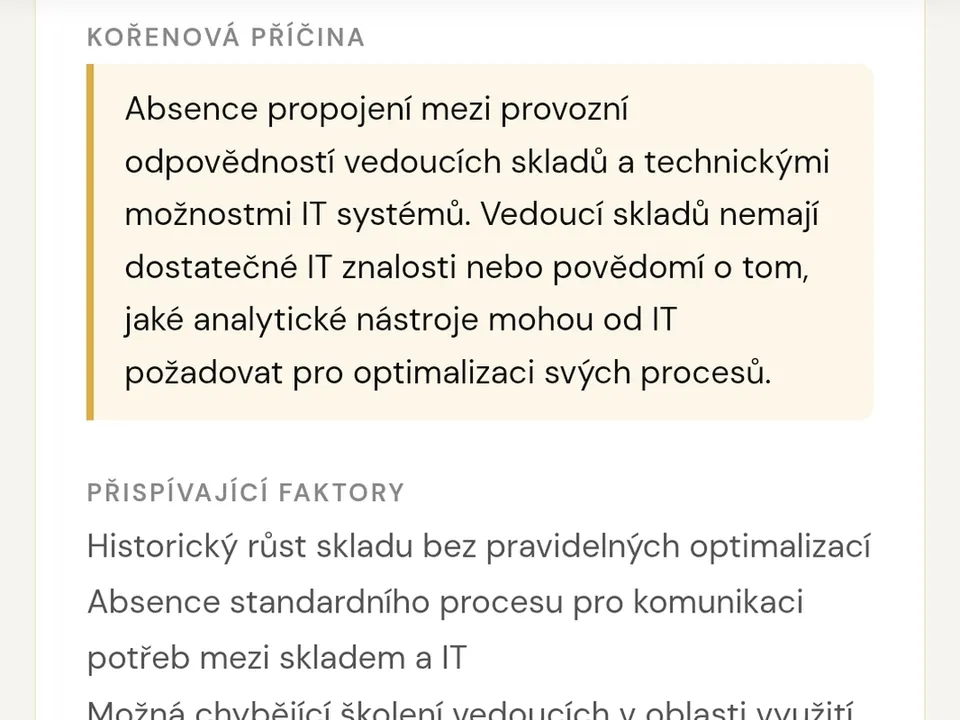
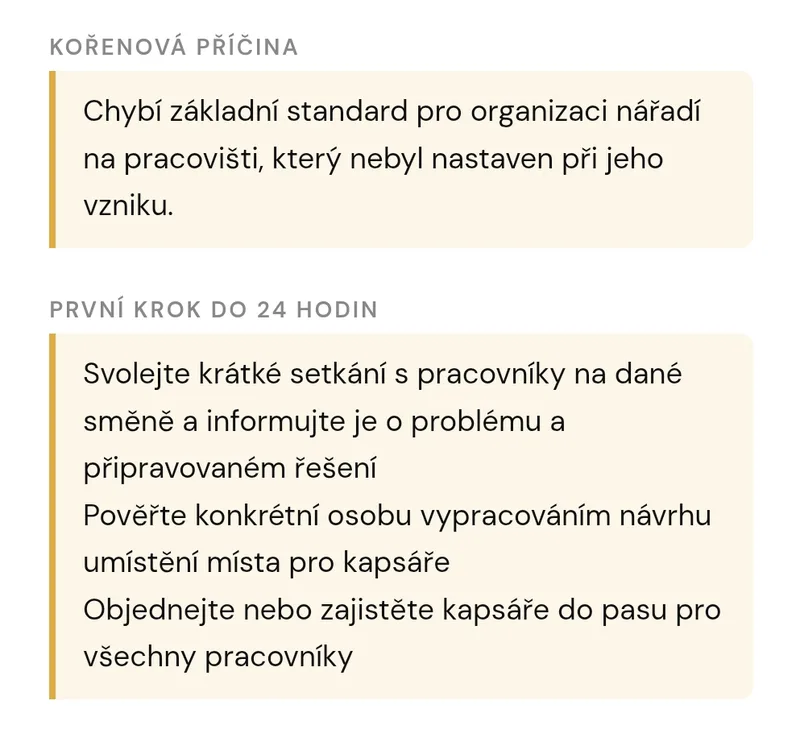
Úvodní stránka: nový obrázek ke kroku 3 (příčina a první krok)
Claude-Session: https://claude.ai/code/session_01LBsUBimv5w2kaEmM5bnhcf

Changed region(s): [[0.0312, 0.0306, 0.9062, 0.9472], [0.0938, 0.9778, 0.9062, 1.0], [0.0312, 0.0, 0.0625, 0.0306]]

diff --git a/index.html b/index.html
@@ -289,7 +289,7 @@ section { padding:52px 0; border-top:1px solid var(--border2); }
         <div class="krok-text"><span class="step-num">02</span><h3>Tokva vám pomůže změřit, jak velký je problém</h3><p>Provede vás jednoduchým měřením a výsledky přehledně zobrazí. Uvidíte, kde mizí čas a kolik vás to zhruba stojí.</p></div>
       </div>
       <div class="krok-karta">
-        <picture><source srcset="obrazky/krok-3.webp" type="image/webp"><img src="obrazky/krok-3.jpg" width="960" height="720" alt="5× Proč: pojmenovaná kořenová příčina" loading="lazy"></picture>
+        <picture><source srcset="obrazky/krok-3.webp" type="image/webp"><img src="obrazky/krok-3.jpg" width="800" height="746" style="aspect-ratio:auto;" alt="5× Proč AI kouč: pravděpodobná příčina a první krok do 24 hodin" loading="lazy"></picture>
         <div class="krok-text"><span class="step-num">03</span><h3>Tokva pomůže najít příčinu a další krok</h3><p>Otázkami vás dovede k pravděpodobné příčině problému a pomůže určit, co změnit jako první.</p></div>
       </div>
       <div class="krok-karta">
